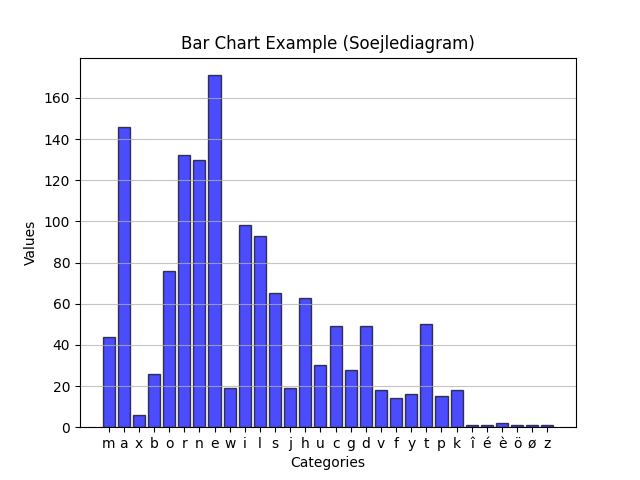
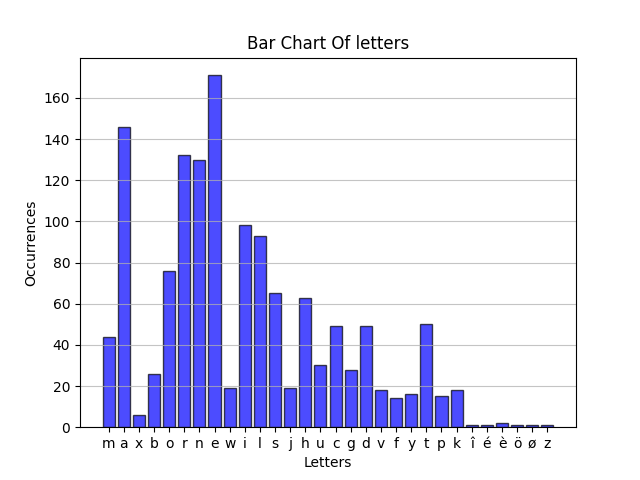
cleaned up the code and refactored it for easier reading

Changed region(s): [[0.2812, 0.0625, 0.75, 0.125], [0.4688, 0.9375, 0.5625, 1.0], [0.0312, 0.4062, 0.0625, 0.5938]]

diff --git a/Uge_3_underopgaver/Uge_3_underopgave_1.py b/Uge_3_underopgaver/Uge_3_underopgave_1.py
@@ -1,0 +1,83 @@
+import matplotlib.pyplot as plt
+from wordcloud import WordCloud
+
+def importNames():
+#open file with 
+    listOfNames = []
+    with open('names.txt', 'r') as file:
+        for line in file:
+            stringName = str(line.strip())
+            stringName = stringName.replace(" ", "").replace(".", "").replace("-", "")
+            listOfNames.append(stringName)
+    return listOfNames
+
+def sortNamesAlphabetical(listOfNames):
+    listOfNames.sort()
+    #output names to file
+    with open('namesSortedAlphabetical.txt', 'w') as file:
+        for name in listOfNames:
+            file.write(f"{name}\n")
+
+#sort names by length
+def lenghtOfName(e):
+    return len(e)
+
+def sortNamesByLength(listOfNames):
+    listOfNames.sort(key=lenghtOfName)
+    
+    #output names to file
+    with open('namesSortedByLength.txt', 'w') as file:
+        for name in listOfNames:
+            file.write(f"{name}\n")
+
+
+
+def createBarChart(dictOfLetters):
+    keys = list(dictOfLetters.keys())   
+    values = list(dictOfLetters.values())
+    
+    plt.bar(keys, values, color='blue', alpha=0.7, edgecolor='black')
+    
+    # Add title and labels
+    plt.title('Bar Chart Of letters')
+    plt.xlabel('Letters')
+    plt.ylabel('Occurrences')
+    
+    # Show the plot
+    plt.grid(axis='y', alpha=0.75)
+    fname = "soejlediagram.png"
+    plt.savefig(fname, transparent=None, dpi='figure', format=None, metadata=None, bbox_inches=None, pad_inches=0.1, facecolor='auto', edgecolor='auto', backend=None)
+
+
+
+def createWordCloud(wordCloudString):
+    wordcloud = WordCloud(width=1600, height=800, background_color='white', colormap='viridis', random_state=41, max_words=10000, stopwords=set()).generate(wordCloudString)
+    plt.figure(figsize=(10, 5))
+    plt.imshow(wordcloud, interpolation='bilinear')
+    plt.axis('off')  # Hide the axes
+    plt.title('Word Cloud of letters')
+    fname = "wordcloud.png"
+    plt.savefig(fname, transparent=None, dpi='figure', format=None, metadata=None, bbox_inches=None, pad_inches=0.1, facecolor='auto', edgecolor='auto', backend=None)
+
+
+def underopgaveEt():
+    listOfNames = importNames()
+
+    sortNamesAlphabetical(listOfNames)
+    sortNamesByLength(listOfNames)
+
+    #generate data for the bar chart and wordcloud
+    dictOfLetters = {}
+    wordCloudString = ""
+    for name in listOfNames:
+        char_array = list(name)
+        for char in char_array:
+            char = char.lower()
+            wordCloudString += f" {char}"
+            if char in dictOfLetters:
+                dictOfLetters[f"{char}"] += 1
+            else:
+                dictOfLetters[f"{char}"] = 1
+    
+    createBarChart(dictOfLetters)
+    createWordCloud(wordCloudString)

diff --git a/Uge_3_underopgaver/Uge_3_underopgaver.py b/Uge_3_underopgaver/Uge_3_underopgaver.py
@@ -1,77 +1,7 @@
-import matplotlib.pyplot as plt
-from wordcloud import WordCloud
-
+from Uge_3_underopgave_1 import underopgaveEt
 from Uge_3_underopgave_2 import underopgaveTO
 from Uge_3_underopgave_3 import underOpgaveTre
 
-
-
-#open file with 
-listOfNames = []
-with open('names.txt', 'r') as file:
-    for line in file:
-        stringName = str(line.strip())
-        stringName = stringName.replace(" ", "").replace(".", "").replace("-", "")
-        listOfNames.append(stringName)
-
-
-#sort names alphabetical
-listOfNames.sort()
-#output names to file
-with open('namesSortedAlphabetical.txt', 'w') as file:
-    for name in listOfNames:
-        file.write(f"{name}\n")
-
-#sort names by length
-def lenghtOfName(e):
-    return len(e)
-
-listOfNames.sort(key=lenghtOfName)
-
-#output names to file
-with open('namesSortedByLength.txt', 'w') as file:
-    for name in listOfNames:
-        file.write(f"{name}\n")
-
-dictOfLetters = {}
-wordCloudString = ""
-for name in listOfNames:
-    char_array = list(name)
-    for char in char_array:
-        char = char.lower()
-        wordCloudString += f" {char}"
-        if char in dictOfLetters:
-            dictOfLetters[f"{char}"] += 1
-        else:
-            dictOfLetters[f"{char}"] = 1
-keys = list(dictOfLetters.keys())   
-values = list(dictOfLetters.values())
-
-plt.bar(keys, values, color='blue', alpha=0.7, edgecolor='black')
-
-# Add title and labels
-plt.title('Bar Chart Example (Soejlediagram)')
-plt.xlabel('Categories')
-plt.ylabel('Values')
-
-# Show the plot
-plt.grid(axis='y', alpha=0.75)
-fname = "soejlediagram.png"
-plt.savefig(fname, transparent=None, dpi='figure', format=None, metadata=None, bbox_inches=None, pad_inches=0.1, facecolor='auto', edgecolor='auto', backend=None)
-
-
-
-
-wordcloud = WordCloud(width=1600, height=800, background_color='white', 
-                      colormap='viridis', random_state=41, max_words=10000, stopwords=set()).generate(wordCloudString)
-
-plt.figure(figsize=(10, 5))
-plt.imshow(wordcloud, interpolation='bilinear')
-plt.axis('off')  # Hide the axes
-plt.title('Word Cloud of letters')
-fname = "wordcloud.png"
-plt.savefig(fname, transparent=None, dpi='figure', format=None, metadata=None, bbox_inches=None, pad_inches=0.1, facecolor='auto', edgecolor='auto', backend=None)
-
-#plt.hist(data, bins=30, density=True, alpha=0.6, color='b', edgecolor='black')
+underopgaveEt()
 underopgaveTO()
 underOpgaveTre()

diff --git a/Uge_3_underopgaver/Uge_3_underopgave_3.py b/Uge_3_underopgaver/Uge_3_underopgave_3.py
@@ -78,12 +78,11 @@ def underOpgaveTre():
                 if error[0] == "":
                     validRow = {'customer_id': row['customer_id'], 'name': row['name'], 'email': row['email'], 'purchase_amount': row['purchase_amount']}
                     data.append(validRow)
-                    print(f"CustomerId: {row['customer_id']}, Name: {row['name']}, Email: {row['email']}, Purchase amount: {row['purchase_amount']}  ")
                 else: 
                     if error[1] == "Error":
                         logging.error(f'Error in line {row_number} error: {error[0]}')
                     elif error[1] == "Warn": 
-                        logging.error(f'Data is not validin in line {row_number}. Reason: {error[0]}')
+                        logging.warning(f'Data is not validin in line {row_number}. Reason: {error[0]}')
         if len(data) > 0:
             fieldnames = ['customer_id', 'name', 'email', 'purchase_amount']
             with open('output_data.csv', mode='w', newline='') as file:
@@ -93,3 +92,4 @@ def underOpgaveTre():
                 
     else:
         logging.warning("File does not exist.")
+    print("please check logfile")
